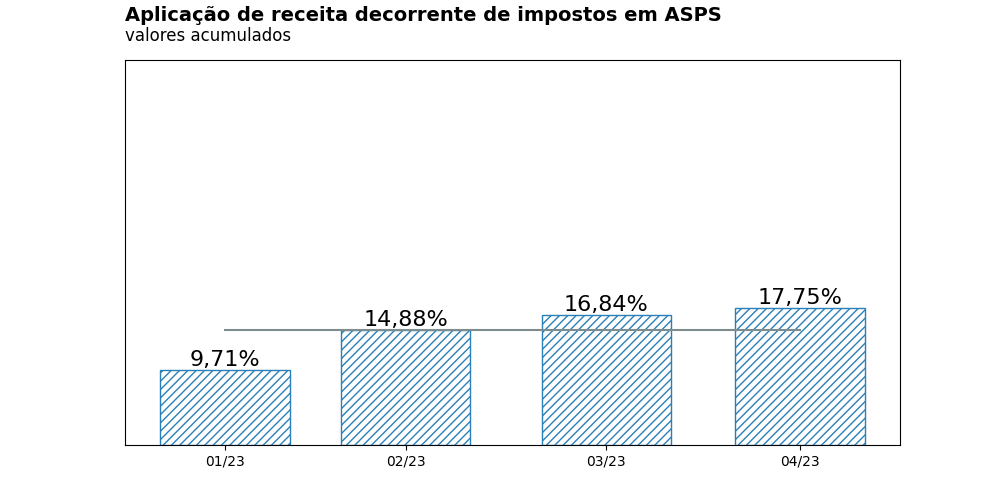
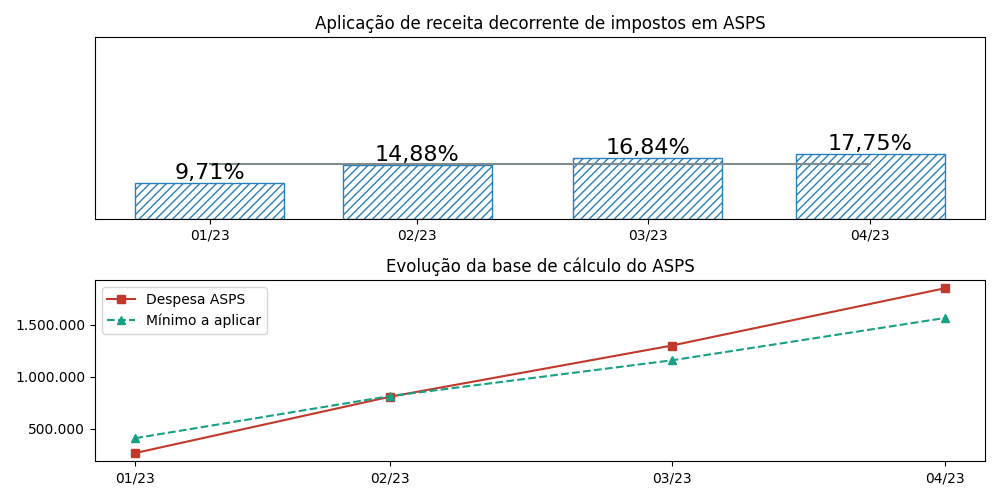
Melhorias e modificações gerais.

diff --git a/iddrs/kpi/topics/educacao.py b/iddrs/kpi/topics/educacao.py
@@ -14,27 +14,45 @@ class MDE(iddrs.kpi.KPIBase):
         self._df = db.exec_sql(f'SELECT * FROM indicadores."MDE" WHERE data_base BETWEEN \'{self._data_base_inicial}\' AND \'{self._data_base_final}\' ORDER BY data_base ASC')
 
     def run(self):
-        self.plot_evolucao_indice_mde()
+        self.plot_evolucao_mde()
         self.df_mde()
 
-    def plot_evolucao_indice_mde(self):
+    def plot_evolucao_mde(self):
         df = self._df[['data_base', 'indice', 'minimo']].copy()
+        # df = utils.completa_data_base(df, self._data_base_final.year, list(df.columns), 'data_base')
+        # df.fillna(0, inplace=True)
+        # df['minimo'] = 0.25
         df['data_base'] = pd.to_datetime(df['data_base'], format='%Y-%m-%d')
-        fig, ax = plt.subplots(figsize=config.figsize)
-        ax.text(0, 1.1, 'Aplicação de receita decorrente de impostos em MDE', fontsize=14, fontweight='bold',
-                transform=ax.transAxes)
-        ax.text(0, 1.05, 'valores acumulados', fontsize=12, transform=ax.transAxes)
-        ax.xaxis.set_major_formatter(mdates.DateFormatter('%m/%y'))
-        ax.xaxis.set_ticks(df['data_base'])
-        ax.set_ylim(0, 0.5)
-        ax.yaxis.set_ticks([])
-        ax.plot(df['data_base'], df['minimo'], color=config.colors['secondary'])
-        ax.bar(df['data_base'], df['indice'], edgecolor=config.colors['primary'], hatch='////', color='white', width=20)
+        fig, ax = plt.subplot_mosaic("""A
+                                        B""", figsize=config.figsize, sharex=False, sharey=False)
+        ax['A'].set_title('Aplicação de receita decorrente de impostos em MDE')
+        ax['A'].xaxis.set_major_formatter(mdates.DateFormatter('%m/%y'))
+        ax['A'].xaxis.set_ticks(df['data_base'])
+        ax['A'].set_ylim(0, 0.5)
+        ax['A'].yaxis.set_ticks([])
+        ax['A'].plot(df['data_base'], df['minimo'], color=config.colors['secondary'])
+        ax['A'].bar(df['data_base'], df['indice'], edgecolor=config.colors['primary'], hatch='////', color='white', width=20)
         for x, y in zip(df['data_base'], df['indice']):
-            ax.text(x, y, '{:.2%}'.format(y).replace('.', ','), ha='center', va='bottom', fontsize=16)
-        ax.legend([]).remove()
-        # plt.show()
+            ax['A'].text(x, y, '{:.2%}'.format(y).replace('.', ','), ha='center', va='bottom', fontsize=12)
+        ax['A'].legend([]).remove()
+
+        df = self._df[['data_base', 'receita_bc', 'despesa_bc']].copy()
+        df['minimo'] = round(df['receita_bc'] * 0.25, 2)
+        # df = utils.completa_data_base(df, self._data_base_final.year, list(df.columns), 'data_base')
+        # df.fillna(0, inplace=True)
+        df['data_base'] = pd.to_datetime(df['data_base'], format='%Y-%m-%d')
+        ax['B'].set_title('Evolução da base de cálculo do MDE')
+        ax['B'].xaxis.set_major_formatter(mdates.DateFormatter('%m/%y'))
+        ax['B'].xaxis.set_ticks(df['data_base'])
+        ax['B'].plot(df['data_base'], df['despesa_bc'], marker='s', color=config.colors['negative'], label='Despesa MDE')
+        ax['B'].plot(df['data_base'], df['minimo'], marker='^', color=config.colors['positive'], label='Mínimo a aplicar', linestyle='--')
+        ax['B'].legend(loc='upper left')
+        ax['B'].yaxis.set_major_formatter(FuncFormatter(lambda x, pos: f'{x:,.0f}'.replace(',', '_').replace('.', ',').replace('_', '.')))
+
+        plt.tight_layout()
         self.save_fig(fig, 'evolucao_indice_mde')
+
+
 
     def df_mde(self):
         df = self._df[['data_base', 'indice', 'receita_bc', 'despesa_bc']].copy()
@@ -50,26 +68,45 @@ class Fundeb(iddrs.kpi.KPIBase):
         self._df = db.exec_sql(f'SELECT * FROM indicadores."FUNDEB" WHERE data_base BETWEEN \'{self._data_base_inicial}\' AND \'{self._data_base_final}\' ORDER BY data_base ASC')
 
     def run(self):
-        self.plot_evolucao_indice_remuneracao_fundeb()
+        self.plot_evolucao_remuneracao_fundeb()
         self.df_remun_fundeb()
 
-    def plot_evolucao_indice_remuneracao_fundeb(self):
+    def plot_evolucao_remuneracao_fundeb(self):
         df = self._df[['data_base', 'indice_remun', 'minimo_remun']].copy()
+        # df = utils.completa_data_base(df, self._data_base_final.year, list(df.columns), 'data_base')
+        # df.fillna(0, inplace=True)
+        # df['minimo_remun'] = 0.7
         df['data_base'] = pd.to_datetime(df['data_base'], format='%Y-%m-%d')
-        fig, ax = plt.subplots(figsize=config.figsize)
-        ax.text(0, 1.1, 'Aplicação da receita do Fundeb em remuneração', fontsize=14, fontweight='bold',
-                transform=ax.transAxes)
-        ax.text(0, 1.05, 'valores acumulados', fontsize=12, transform=ax.transAxes)
-        ax.xaxis.set_major_formatter(mdates.DateFormatter('%m/%y'))
-        ax.xaxis.set_ticks(df['data_base'])
-        ax.set_ylim(0, 1)
-        ax.yaxis.set_ticks([])
-        ax.plot(df['data_base'], df['minimo_remun'], color=config.colors['secondary'])
-        ax.bar(df['data_base'], df['indice_remun'], edgecolor=config.colors['primary'], hatch='////', color='white', width=20)
+        fig, ax = plt.subplot_mosaic("""A
+                                                B""", figsize=config.figsize, sharex=False, sharey=False)
+        ax['A'].set_title('Aplicação da receita do Fundeb em remuneração')
+        ax['A'].xaxis.set_major_formatter(mdates.DateFormatter('%m/%y'))
+        ax['A'].xaxis.set_ticks(df['data_base'])
+        ax['A'].set_ylim(0, 1.2)
+        ax['A'].yaxis.set_ticks([])
+        ax['A'].plot(df['data_base'], df['minimo_remun'], color=config.colors['secondary'])
+        ax['A'].bar(df['data_base'], df['indice_remun'], edgecolor=config.colors['primary'], hatch='////', color='white',
+                    width=20)
         for x, y in zip(df['data_base'], df['indice_remun']):
-            ax.text(x, y, '{:.2%}'.format(y).replace('.', ','), ha='center', va='bottom', fontsize=16)
-        ax.legend([]).remove()
-        # plt.show()
+            ax['A'].text(x, y, '{:.2%}'.format(y).replace('.', ','), ha='center', va='bottom', fontsize=12)
+        ax['A'].legend([]).remove()
+
+        df = self._df[['data_base', 'receita_bc_remun', 'despesa_bc_remun']].copy()
+        df['minimo_remun'] = round(df['receita_bc_remun'] * 0.7, 2)
+        # df = utils.completa_data_base(df, self._data_base_final.year, list(df.columns), 'data_base')
+        # df.fillna(0, inplace=True)
+        df['data_base'] = pd.to_datetime(df['data_base'], format='%Y-%m-%d')
+        ax['B'].set_title('Evolução da base de cálculo da Remuneração/Fundeb')
+        ax['B'].xaxis.set_major_formatter(mdates.DateFormatter('%m/%y'))
+        ax['B'].xaxis.set_ticks(df['data_base'])
+        ax['B'].plot(df['data_base'], df['despesa_bc_remun'], marker='s', color=config.colors['negative'], label='Despesa Remuneração/Fundeb')
+        ax['B'].plot(df['data_base'], df['minimo_remun'], marker='^', color=config.colors['positive'],
+                     label='Mínimo a aplicar', linestyle='--')
+        ax['B'].legend(loc='upper left')
+        ax['B'].yaxis.set_major_formatter(
+            FuncFormatter(lambda x, pos: f'{x:,.0f}'.replace(',', '_').replace('.', ',').replace('_', '.')))
+
+        plt.tight_layout()
         self.save_fig(fig, 'evolucao_indice_remun_fundeb')
 
     def df_remun_fundeb(self):
@@ -90,6 +127,8 @@ class Educacao(iddrs.kpi.KPIBase):
 
     def plot_evolucao_receita_despesa(self):
         df = db.exec_sql(f'SELECT data_base, arrecadado, empenhado, liquidado FROM indicadores."RECEITA_DESPESA_EDUCACAO" WHERE data_base BETWEEN \'{self._data_base_inicial}\' AND \'{self._data_base_final}\' ORDER BY data_base ASC')
+        # df = utils.completa_data_base(df, self._data_base_final.year, list(df.columns), 'data_base')
+        # df.fillna(0, inplace=True)
         df['data_base'] = pd.to_datetime(df['data_base'], format='%Y-%m-%d')
         fig, ax = plt.subplots(figsize=config.figsize)
         ax.text(0, 1.1, 'Evolução da receita e despesa da educação', fontsize=14, fontweight='bold',

diff --git a/iddrs/kpi/topics/saude.py b/iddrs/kpi/topics/saude.py
@@ -14,26 +14,45 @@ class ASPS(iddrs.kpi.KPIBase):
         self._df = db.exec_sql(f'SELECT * FROM indicadores."ASPS" WHERE data_base BETWEEN \'{self._data_base_inicial}\' AND \'{self._data_base_final}\' ORDER BY data_base ASC')
 
     def run(self):
-        self.plot_evolucao_indice_asps()
+        self.plot_evolucao_asps()
         self.df_asps()
 
-    def plot_evolucao_indice_asps(self):
+    def plot_evolucao_asps(self):
         df = self._df[['data_base', 'indice', 'minimo']].copy()
+        # df = utils.completa_data_base(df, self._data_base_final.year, list(df.columns), 'data_base')
+        # df.fillna(0, inplace=True)
         df['data_base'] = pd.to_datetime(df['data_base'], format='%Y-%m-%d')
-        fig, ax = plt.subplots(figsize=config.figsize)
-        ax.text(0, 1.1, 'Aplicação de receita decorrente de impostos em ASPS', fontsize=14, fontweight='bold',
-                transform=ax.transAxes)
-        ax.text(0, 1.05, 'valores acumulados', fontsize=12, transform=ax.transAxes)
-        ax.xaxis.set_major_formatter(mdates.DateFormatter('%m/%y'))
-        ax.xaxis.set_ticks(df['data_base'])
-        ax.set_ylim(0, 0.5)
-        ax.yaxis.set_ticks([])
-        ax.plot(df['data_base'], df['minimo'], color=config.colors['secondary'])
-        ax.bar(df['data_base'], df['indice'], edgecolor=config.colors['primary'], hatch='////', color='white', width=20)
+        fig, ax = plt.subplot_mosaic("""A
+                                                B""", figsize=config.figsize, sharex=False, sharey=False)
+        ax['A'].set_title('Aplicação de receita decorrente de impostos em ASPS')
+        ax['A'].xaxis.set_major_formatter(mdates.DateFormatter('%m/%y'))
+        ax['A'].xaxis.set_ticks(df['data_base'])
+        ax['A'].set_ylim(0, 0.5)
+        ax['A'].yaxis.set_ticks([])
+        ax['A'].plot(df['data_base'], df['minimo'], color=config.colors['secondary'])
+        ax['A'].bar(df['data_base'], df['indice'], edgecolor=config.colors['primary'], hatch='////', color='white',
+                    width=20)
         for x, y in zip(df['data_base'], df['indice']):
-            ax.text(x, y, '{:.2%}'.format(y).replace('.', ','), ha='center', va='bottom', fontsize=16)
-        ax.legend([]).remove()
-        # plt.show()
+            ax['A'].text(x, y, '{:.2%}'.format(y).replace('.', ','), ha='center', va='bottom', fontsize=16)
+        ax['A'].legend([]).remove()
+
+        df = self._df[['data_base', 'receita_bc', 'despesa_bc']].copy()
+        df['minimo'] = round(df['receita_bc'] * 0.15, 2)
+        # df = utils.completa_data_base(df, self._data_base_final.year, list(df.columns), 'data_base')
+        # df.fillna(0, inplace=True)
+        df['data_base'] = pd.to_datetime(df['data_base'], format='%Y-%m-%d')
+        ax['B'].set_title('Evolução da base de cálculo do ASPS')
+        ax['B'].xaxis.set_major_formatter(mdates.DateFormatter('%m/%y'))
+        ax['B'].xaxis.set_ticks(df['data_base'])
+        ax['B'].plot(df['data_base'], df['despesa_bc'], marker='s', color=config.colors['negative'],
+                     label='Despesa ASPS')
+        ax['B'].plot(df['data_base'], df['minimo'], marker='^', color=config.colors['positive'],
+                     label='Mínimo a aplicar', linestyle='--')
+        ax['B'].legend(loc='upper left')
+        ax['B'].yaxis.set_major_formatter(
+            FuncFormatter(lambda x, pos: f'{x:,.0f}'.replace(',', '_').replace('.', ',').replace('_', '.')))
+
+        plt.tight_layout()
         self.save_fig(fig, 'evolucao_indice_asps')
 
     def df_asps(self):
@@ -54,6 +73,8 @@ class Saude(iddrs.kpi.KPIBase):
 
     def plot_evolucao_receita_despesa(self):
         df = db.exec_sql(f'SELECT data_base, arrecadado, empenhado, liquidado FROM indicadores."RECEITA_DESPESA_SAUDE" WHERE data_base BETWEEN \'{self._data_base_inicial}\' AND \'{self._data_base_final}\' ORDER BY data_base ASC')
+        # df = utils.completa_data_base(df, self._data_base_final.year, list(df.columns), 'data_base')
+        # df.fillna(0, inplace=True)
         df['data_base'] = pd.to_datetime(df['data_base'], format='%Y-%m-%d')
         fig, ax = plt.subplots(figsize=config.figsize)
         ax.text(0, 1.1, 'Evolução da receita e despesa da saúde', fontsize=14, fontweight='bold',

diff --git a/iddrs/utils.py b/iddrs/utils.py
@@ -1,7 +1,7 @@
 from datetime import date
 import calendar
-
 import pandas as pd
+import numpy as np
 
 
 def get_database(ano: int, mes: int) -> date:
@@ -30,3 +30,12 @@ def get_primeiro_dia_ano(ano: int) -> date:
     """
     return date(ano, 1, 1)
 
+def completa_data_base(df: pd.DataFrame, ano: int, campos: list, index: str) -> pd.DataFrame:
+    n = len(df)
+    dates = pd.date_range(f'{str(ano)}-01-31', f'{str(ano)}-12-31', freq='M')
+    df1 = pd.DataFrame({index: dates})
+    for campo in campos:
+        if campo == index:
+            continue
+        df1[campo] = pd.concat([df[campo], pd.Series(np.nan, index=list(range(n, 12)))])
+    return df1
